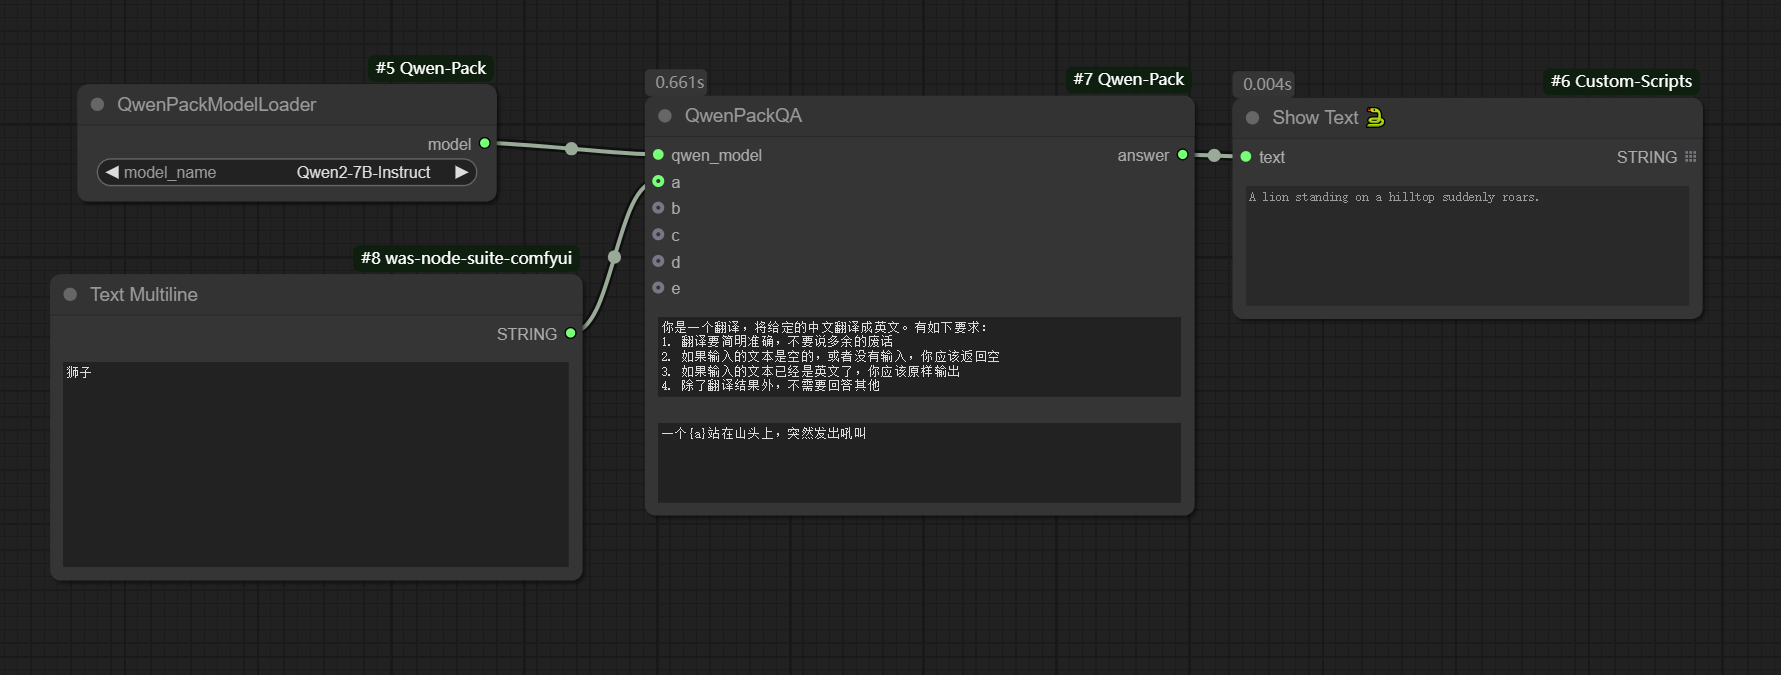
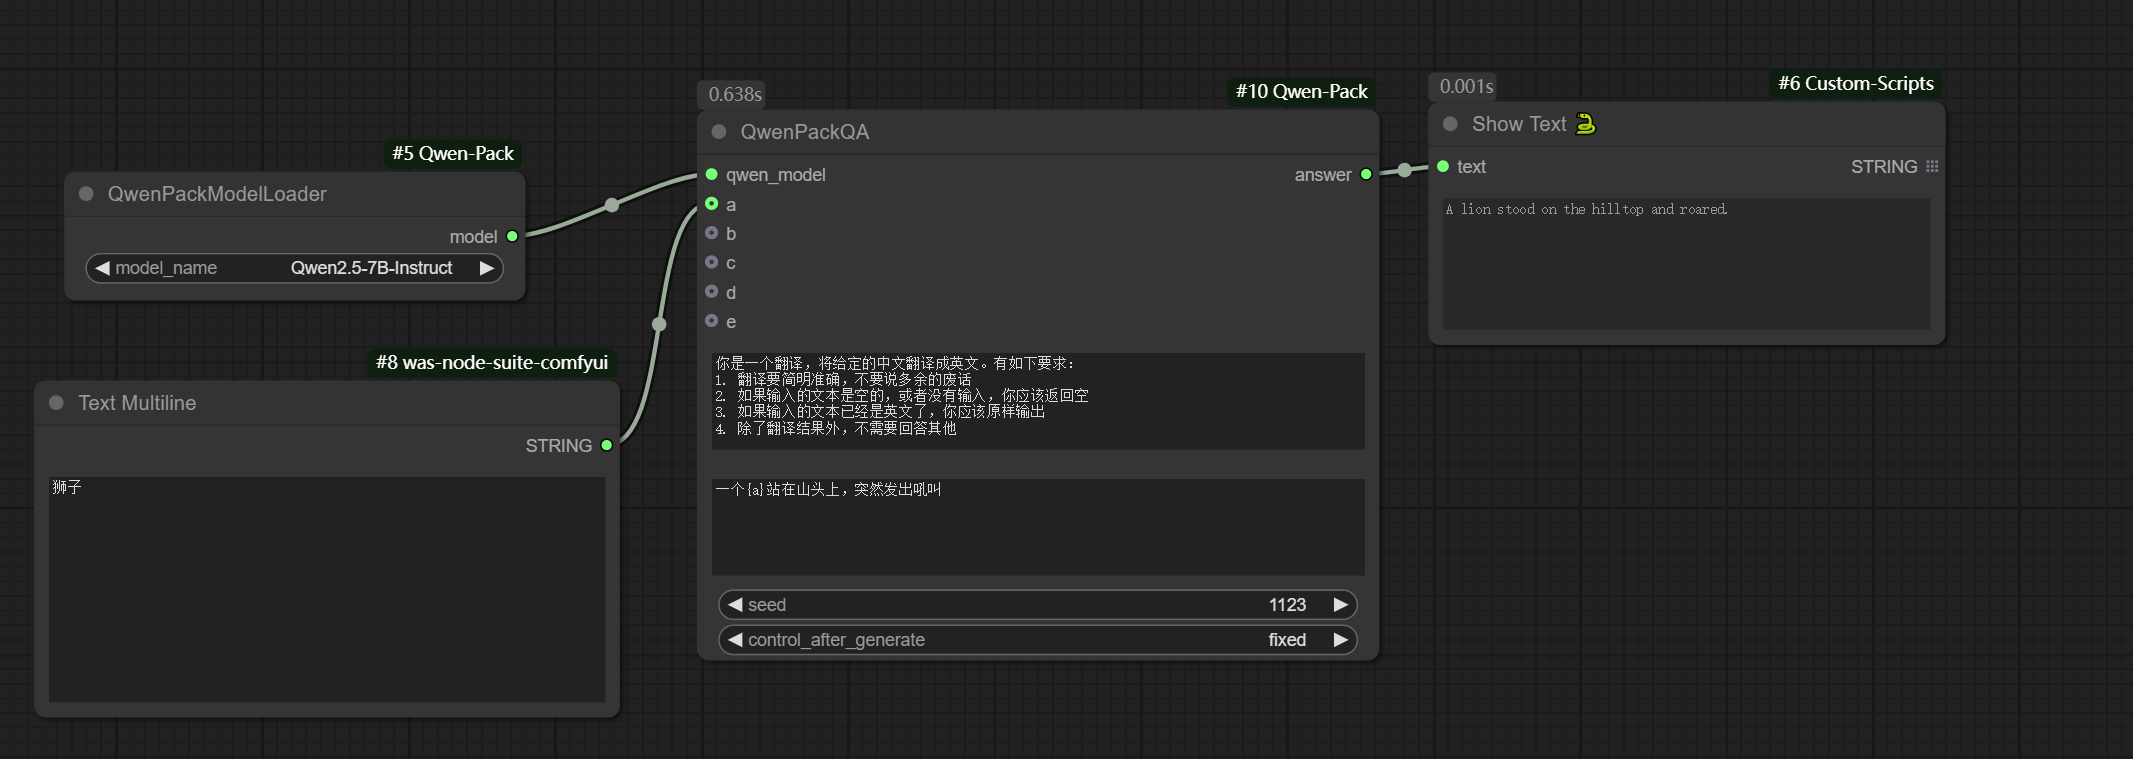
feat: support seed

diff --git a/qwen.py b/qwen.py
@@ -3,6 +3,7 @@ from pathlib import Path
 from transformers import AutoModelForCausalLM, AutoTokenizer
 from folder_paths import models_dir
 from comfy import model_management, model_patcher
+from .utils import set_seed
 
 # init
 qwen_model_folder_path = Path(models_dir) / 'qwen'
@@ -68,6 +69,7 @@ class QwenPackQA:
                 "qwen_model": ("QWEN_MODEL",),
                 "system_instruction": ("STRING", {"default": DEFAULT_INSTRUCT, "multiline": True}),
                 "user_prompt": ("STRING", {"default": "", "multiline": True}),
+                "seed": ("INT", {"default": 0, "min": 0, "max": 0xffffffffffffffff}),
             },
             "optional": {
                 "a": ("STRING", {"defaultInput": True,}),
@@ -84,7 +86,8 @@ class QwenPackQA:
     CATEGORY = "qwen_pack"
 
 
-    def generate(self, qwen_model, system_instruction, user_prompt, **kwargs):
+    def generate(self, qwen_model, system_instruction, user_prompt, seed, **kwargs):
+        set_seed(seed % 9999999)
         messages = [
             {"role": "system", "content": system_instruction},
             {"role": "user", "content": user_prompt.format(**kwargs)},

diff --git a/utils.py b/utils.py
@@ -1,0 +1,10 @@
+import random
+import numpy as np
+import torch
+
+def set_seed(seed):
+    random.seed(seed)
+    np.random.seed(seed)
+    torch.manual_seed(seed)
+    if torch.cuda.is_available():
+        torch.cuda.manual_seed_all(seed)
